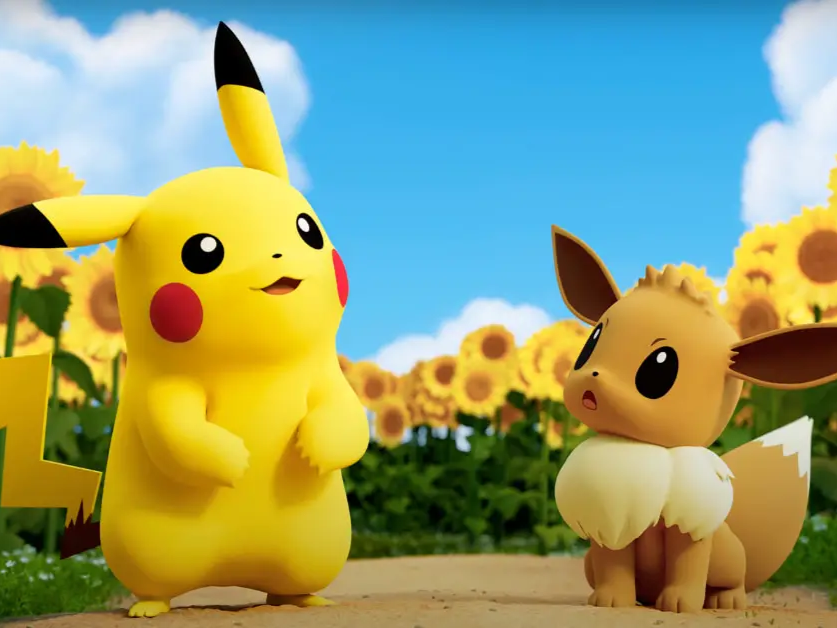
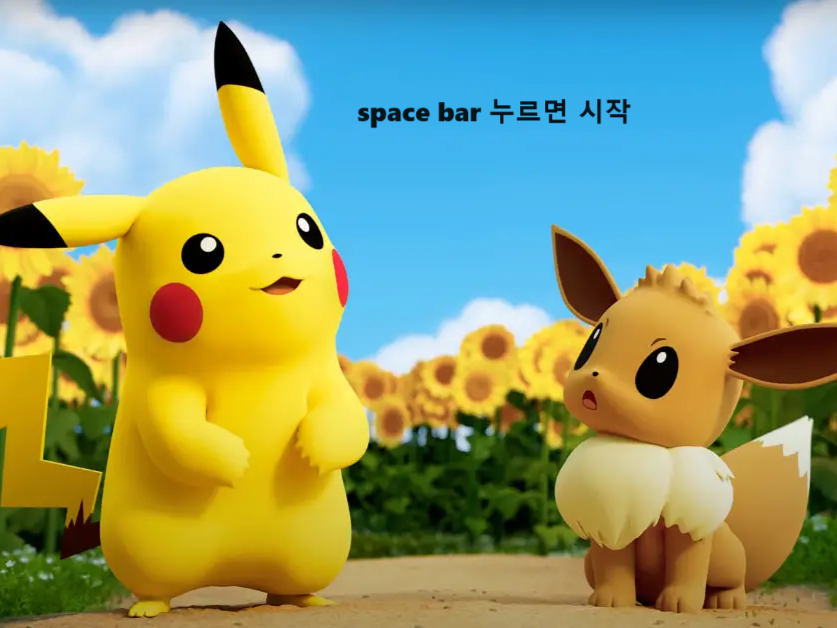
수치조정 및 title.png 수정

Changed region(s): [[0.4349, 0.1513, 0.7766, 0.2118]]

diff --git a/ball.py b/ball.py
@@ -29,7 +29,7 @@ FRAMES_PER_ACTION = 5
 class Ball:
     image = None
 
-    def __init__(self, x=700, y=300, velocity=4):
+    def __init__(self, x=700, y=700, velocity=4):
 
         if Ball.image == None:
             Ball.image = load_image('ball.png')
@@ -39,7 +39,7 @@ class Ball:
         self.dir_x = 0
 
     def draw(self):
-        draw_rectangle(*self.get_bb())
+        # draw_rectangle(*self.get_bb())
         self.image.clip_draw(int(self.frame) * 71, 0, 70, 70, self.x, self.y, 100, 100)  # ball_size 71 70
 
     def update(self):
@@ -48,13 +48,18 @@ class Ball:
         self.x += self.dir_x * RUN_SPEED_PPS * game_framework.frame_time*self.velocity
 
         if self.y < ground_y:
-            self.dir_y = 1
+            self.dir_y = 1.3
+            self.velocity = 3
         if self.y > sky_y:
-            self.dir_y = -1
+            self.dir_y = -1.5
+            self.dir_x = self.dir_x *1.4
+            self.velocity = 3
         if self.x < ground_xl:
-            self.dir_x = 1
+            self.dir_x = 1.3
+            self.velocity = 4
         if self.x > ground_xr:
-            self.dir_x = -1
+            self.dir_x = -1.2
+            self.velocity = 4
 
         pass
         # self.x += self.velocity * 100 * game_framework.frame_time

diff --git a/score.py b/score.py
@@ -27,8 +27,16 @@ class Score:
     def update(self):
         if self.ball_instance.y < ball.ground_y and self.ball_instance.x < 400:
             self.score += 1
+            self.ball_instance.x =700
+            self.ball_instance.y =700
+            self.ball_instance.dir_y = -1
+            self.ball_instance.dir_x = 0
         if self.ball_instance.y < ball.ground_y and self.ball_instance.x > 400:
             self.score_left +=1
+            self.ball_instance.x =150
+            self.ball_instance.y =700
+            self.ball_instance.dir_y = -1
+            self.ball_instance.dir_x = 0
 
         if self.score > 7 or self.score_left > 7:
             game_framework.change_mode(title_mode)

diff --git a/pikachu.py b/pikachu.py
@@ -286,10 +286,10 @@ class Pikachu:
     def draw(self):
 
         self.state_machine.draw()
-        draw_rectangle(*self.get_bb())
+        # draw_rectangle(*self.get_bb())
 
     def get_bb(self):
-        return self.x -50, self.y -30, self.x+30, self.y+60
+        return self.x -50, self.y+40 , self.x+25, self.y+60
 
     def fire_ball(self):
         pass

diff --git a/pikachu_left.py b/pikachu_left.py
@@ -289,7 +289,8 @@ class Pikachu_left:
         # draw_rectangle(*self.get_bb())
 
     def get_bb(self):
-        return self.x -50, self.y -30, self.x+30, self.y+60
+        return self.x -50, self.y+40 , self.x+25, self.y+60
+
 
     def fire_ball(self):
         pass

diff --git a/main.py b/main.py
@@ -1,6 +1,6 @@
 from pico2d import *
 import game_framework
-import title_mode as start_mode
+import logo_mode as start_mode
 
 background_x, background_y = 800,549
 
